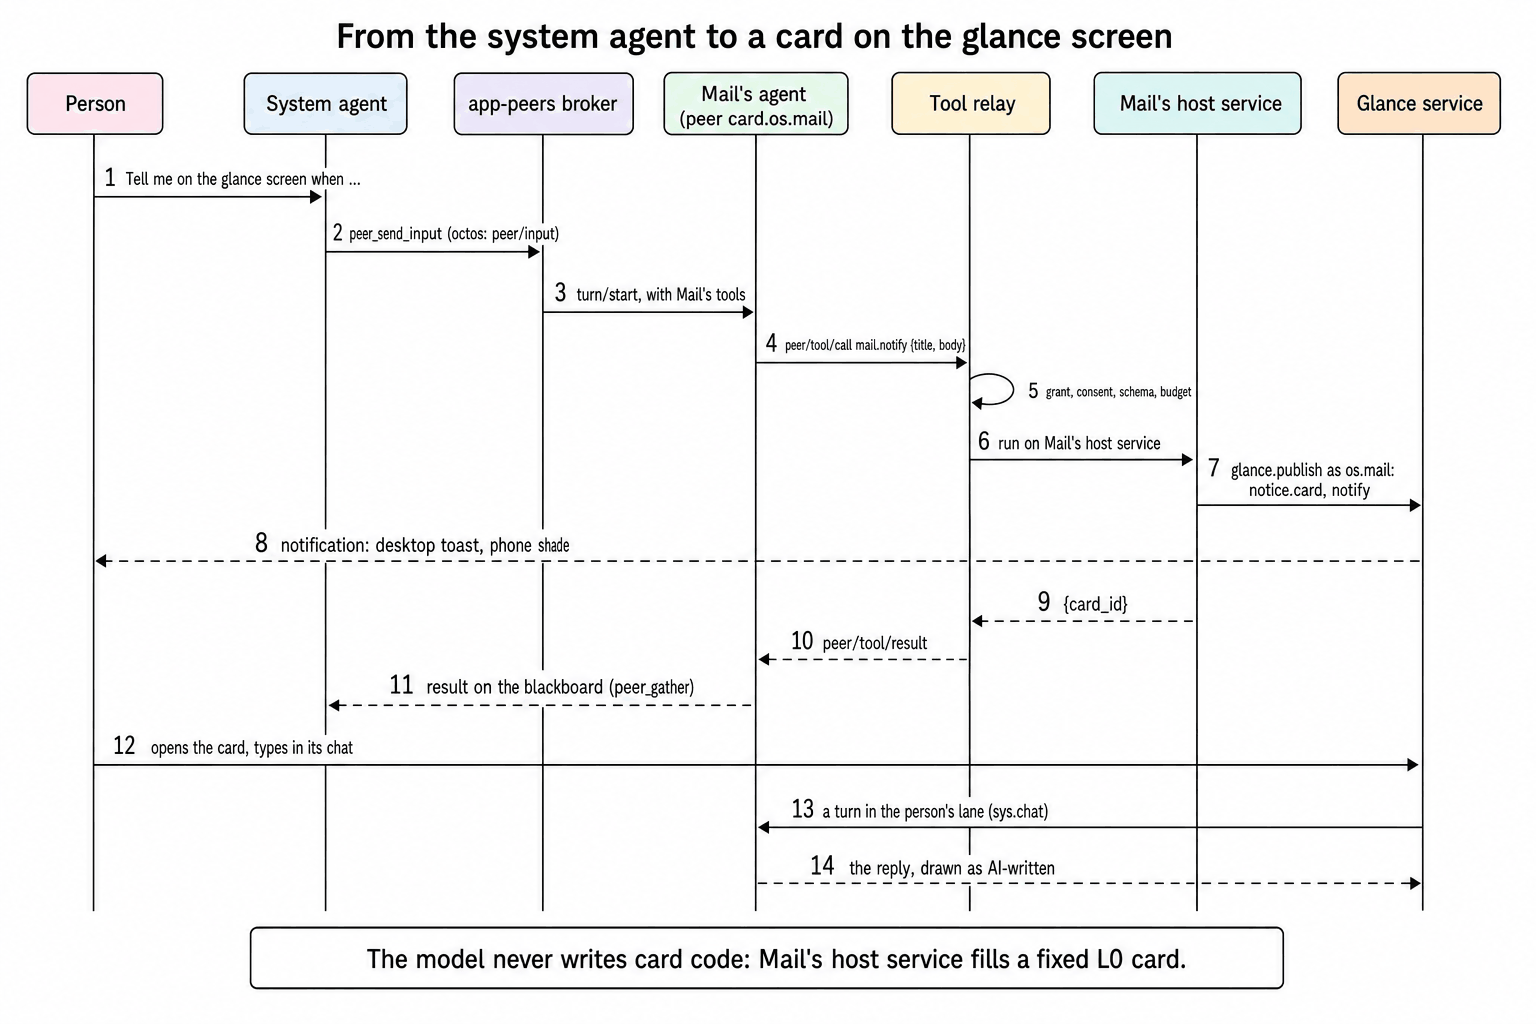
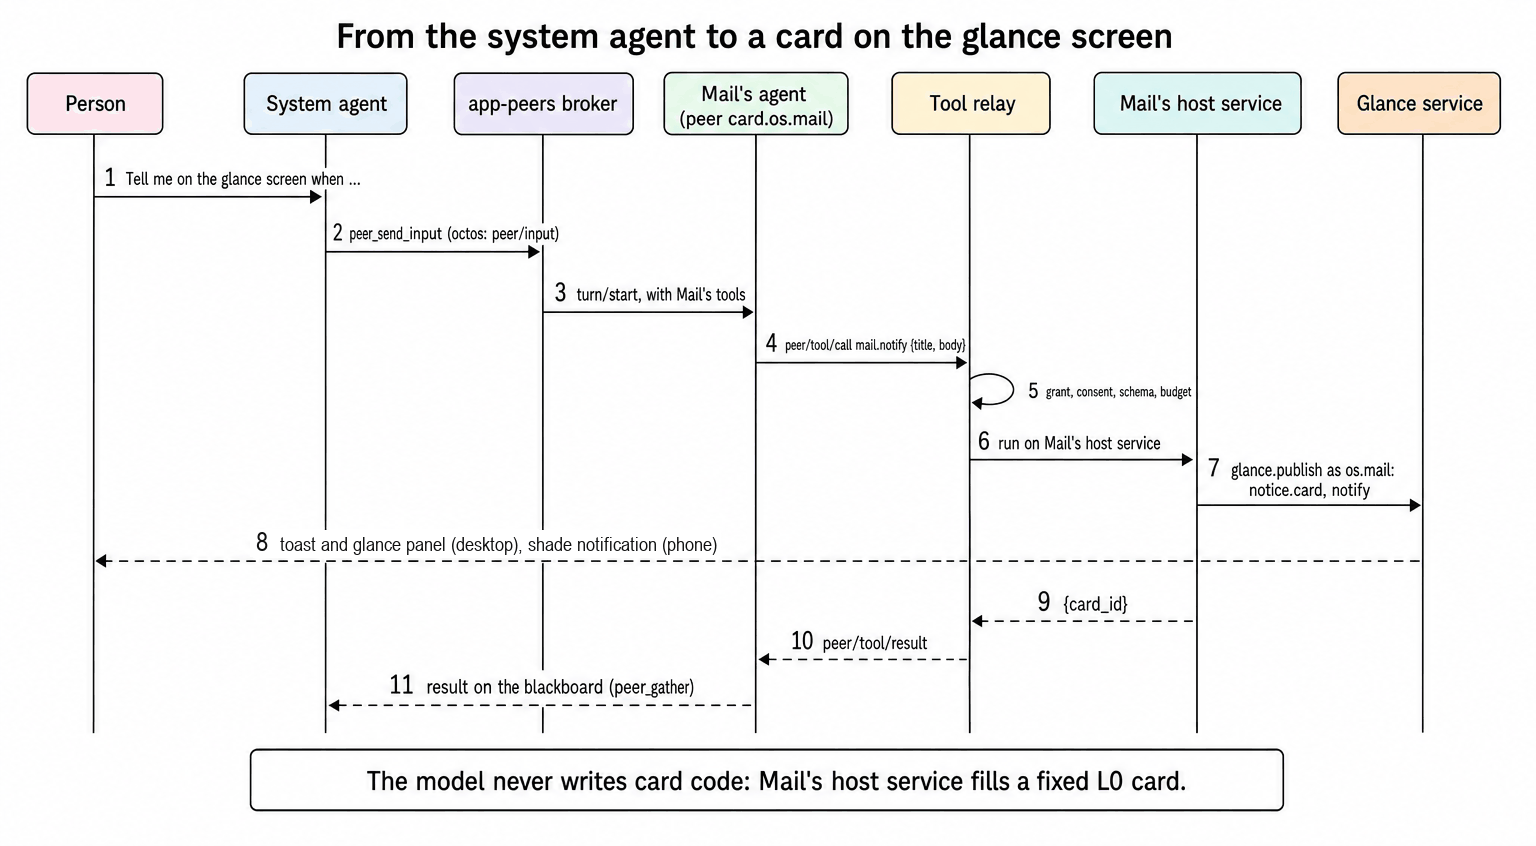
docs: distinguish shipped Glance notices from chat-capable cards

diff --git a/README.zh-CN.md b/README.zh-CN.md
@@ -122,18 +122,15 @@ sequenceDiagram
   R->>R: grant, consent, schema, budget
   R->>M: run on Mail's host service
   M->>G: glance.publish as os.mail: notice.card, notify
-  G-->>P: notification (a desktop toast, the phone's shade)
+  G-->>P: desktop: a toast and the glance panel; phone: a shade notification
   M-->>R: {card_id}
   R-->>A: peer/tool/result
   A-->>S: the turn's result on the blackboard (peer_gather)
-  P->>G: opens the card, types in its chat
-  G->>A: a turn in the person's lane (sys.chat)
-  A-->>G: the reply, drawn as AI-written
 ```
 
 </details>
 
-- 通知工具经 `glance_notice.rs` 填充 `crates/shell/resources/glance/notice.card`；Mail 和 News 的宿主服务回调委派到这里。Calendar 的事件与议程模板位于 `apps/calendar/host-service/resources/`。这些工具接收内容，以应用身份发布固定 L0 模板。
+- 通知工具经 `glance_notice.rs` 填充 `crates/shell/resources/glance/notice.card`；Mail 和 News 的宿主服务回调委派到这里。Calendar 的事件与议程模板位于 `apps/calendar/host-service/resources/`。这些工具接收内容，以应用身份发布固定 L0 模板。随产品提供的通知、事件与议程模板均未声明 `sys.chat`；通过 “Ask <app>” 与应用 Agent 讨论这些卡片。
 - `mail.notify` 和 `calendar.add_event` 是 `act` 工具，运行时不弹面板；octos 只对破坏性和对外的工具请求审批，这些审批交给 Shell 的审批路由（[见下文](#一次带审批的工具调用)）。
 
 ### 一个应用 Agent，两条通道
@@ -180,8 +177,8 @@ flowchart TB
 | 入口 | 位置 | 如何打开 |
 | --- | --- | --- |
 | **“Ask <app>”**（`crates/shell/src/app_chat/`） | Shell 为每个拥有 Agent 的应用提供的面板，不论应用自己是否绘制对话界面：它就是系统对话的窗格，以应用对话的形式绘制（`app_panel: true`）。在桌面端，它位于系统对话的右侧，两条通道并排显示。 | 顶栏的 “Ask <app>” 按钮（当前聚焦窗口的应用拥有 Agent 时显示）、Shift+F8，或菜单项 “Ask this app's agent”。如果聚焦的应用没有 Agent，Shell 会提示 “No app agent here”。在手机上，这个窗格绘制为全屏面板，但 `main` 上还没有可以打开它的触控入口。 |
-| **卡片的卡内对话**（`sys.chat`，`crates/shell/src/glance_chat.rs`） | 应用发布的一张 glance 卡片 | 用户在卡片的对话里输入。只有发布卡片的应用自己的 Agent 会回答，它的回复标为 AI 撰写（[见下文](#卡片与提问)）。 |
-| **应用自己的界面** | 原生模块的 `open_conversation`、脚本应用的 `octos.session.open`、进程应用的 peer link | 在应用内。Rinx 绘制自己的助手界面；系统应用（新闻、邮件、日历）都不绘制对话界面，所以对它们来说，入口就是这个面板和它们的卡片。 |
+| **卡片的卡内对话**（`sys.chat`，`crates/shell/src/glance_chat.rs`） | 应用发布的一张 glance 卡片 | 用户在卡片的对话里输入。声明了 `sys.chat` 的卡片将消息交给发布应用的 Agent，回复标为 AI 撰写（[见下文](#卡片与提问)）。随产品提供的 Agent 通知卡片与 Calendar 卡片没有聊天；Mail 演示卡片使用预设回复。 |
+| **应用自己的界面** | 原生模块的 `open_conversation`、脚本应用的 `octos.session.open`、进程应用的 peer link | 在应用内。Rinx 绘制自己的助手界面；系统应用都不绘制对话界面，目前通过 “Ask <app>” 面板与它们的 Agent 对话。 |
 
 “Ask <app>” 面板的行为：
 
@@ -238,7 +235,7 @@ sequenceDiagram
 
 ### 卡片与提问
 
-- **Glance 卡片**（`crates/shell/src/glance.rs`）：拥有 `glance` 权限的应用用 `glance.publish`（以及 `glance.withdraw`、`glance.list`）以自己的身份发布卡片：Shell 从调用方取得发布者，从不读取参数里的发布者。卡片要么是由 `data` 填充的 L0 `source`（只有呈现，由 Octoscript 的 L0 检查器检查），要么是 Splash `script`。限制：每个应用每分钟发布 6 次、最多保留 4 张卡片，总共保留 32 张，按优先级再按时间显示 6 张。以 `notify` 发布的卡片还会发出一条通知：桌面端点击 toast 会在单独的卡片窗口中打开这张卡片（`glance_sheet.rs`），每来一张新卡片 glance 面板（`glance_panel.rs`；顶栏的铃铛、F9）都会打开；手机上点通知栏里的通知会打开 glance 页面。
+- **Glance 卡片**（`crates/shell/src/glance.rs`）：获得 `glance` 权限的应用用 `glance.publish` 发布，以 `glance.withdraw` 撤回、`glance.list` 查询。Shell 从调用方确定发布身份。卡片可使用由 `data` 填充并检查的 L0 `source`，或 Splash `script`。每应用每分钟最多发布 6 次、保留 4 张，整个存储保留 32 张，按优先级和时间展示 6 张。桌面有新卡片时自动打开 glance 面板（顶栏铃铛、F9），但已有卡片窗口打开时例外。`notify` 还显示 toast，点击会打开该卡片窗口；面板打开时 toast 排在其旁边。卡片有移除按钮（`glance::dismiss`），面板有关闭按钮。手机的 `notify` 通知出现在通知栏，点击打开 glance 页面。
 - **交互式卡片**（[#153](https://github.com/OctoSense-org/OctoSense/pull/153)）：应用的 glance 卡片在应用自己的策略下运行，与应用界面在 Card runner 中一样。用户在卡片上的操作是应用自己的操作，经过应用的能力闸门和宿主服务，而不是 Agent 的工具调用，因此不需要额外的 Shell 审批。
 - **卡内对话**（[#263](https://github.com/OctoSense-org/OctoSense/pull/263)）：L0 卡片可以声明 `sys.chat(app, thread, fields)` 并绘制 `ChatEntry` 行，也可以显示模型写的文字（`class: model-copy`），这些文字标为 AI 撰写，且从不被当作操作执行。对话记录归宿主所有（[`crates/l0-chat`](crates/l0-chat/README.md)、`crates/shell/src/glance_chat.rs`）：只能与发布卡片的应用自己的 Agent 对话，只有用户亲手输入的内容才记为用户的话，Agent 在用户的通道里回答。对话按线程保存在应用的账号文件夹中（`apps/<app>/accounts/<account>/chat/<thread>.json`）。
 - **提问**（octos 的 `ask_user_question`）按这一轮的触发方路由：来自用户通道（或应用）的一轮在应用的对话中提问，来自系统 Agent 通道的一轮在系统对话中提问。只有用户能回答，而且只能在 Shell 的界面上回答。

diff --git a/README.md b/README.md
@@ -123,18 +123,15 @@ sequenceDiagram
   R->>R: grant, consent, schema, budget
   R->>M: run on Mail's host service
   M->>G: glance.publish as os.mail: notice.card, notify
-  G-->>P: notification (a desktop toast, the phone's shade)
+  G-->>P: desktop: a toast and the glance panel; phone: a shade notification
   M-->>R: {card_id}
   R-->>A: peer/tool/result
   A-->>S: the turn's result on the blackboard (peer_gather)
-  P->>G: opens the card, types in its chat
-  G->>A: a turn in the person's lane (sys.chat)
-  A-->>G: the reply, drawn as AI-written
 ```
 
 </details>
 
-- The notice tools fill `crates/shell/resources/glance/notice.card` through `glance_notice.rs`; Mail and News delegate to it from their host-service callbacks. Calendar ships its own event and agenda templates in `apps/calendar/host-service/resources/`. These tools accept content and publish a fixed L0 template as the app.
+- The notice tools fill `crates/shell/resources/glance/notice.card` through `glance_notice.rs`; Mail and News delegate to it from their host-service callbacks. Calendar ships its own event and agenda templates in `apps/calendar/host-service/resources/`. These tools accept content and publish a fixed L0 template as the app. The shipped notice, event and agenda templates declare no `sys.chat`; use “Ask <app>” to discuss them with the app agent.
 - `mail.notify` and `calendar.add_event` are `act` tools and run without a sheet; octos asks for approval only for destructive and outward tools, which go to the shell's approval router ([below](#a-tool-call-with-an-approval)).
 
 ### One app agent, two lanes
@@ -181,8 +178,8 @@ The person is not limited to the system agent: they can talk to any app's own ag
 | Surface | Where it is | How it opens |
 | --- | --- | --- |
 | **"Ask <app>"** (`crates/shell/src/app_chat/`) | A shell panel for every app with an agent, whether or not the app draws a chat of its own: the system chat's pane drawn as the app's conversation (`app_panel: true`). On a desktop it stands right of the system chat, so the two lanes show side by side. | The bar's "Ask <app>" button (shown while the focused window's app has an agent), Shift+F8, or the menu row "Ask this app's agent". With an app without an agent focused, the shell says "No app agent here". On the phone the pane is drawn as a full-screen sheet, but no touch control opens it on `main` yet. |
-| **A card's in-card chat** (`sys.chat`, `crates/shell/src/glance_chat.rs`) | A glance card the app published | The person types in the card's chat. Only the publishing app's own agent answers, and its reply is marked AI-written ([below](#cards-and-questions)). |
-| **The app's own UI** | A native module's `open_conversation`, a script app's `octos.session.open`, a process app's peer link | Inside the app. Rinx draws its own assistant UI; none of the system apps (News, Mail, Calendar) draws a chat, so for them the panel and their cards are the way in. |
+| **A card's in-card chat** (`sys.chat`, `crates/shell/src/glance_chat.rs`) | A glance card the app published | The person types in the card's chat. A card declaring `sys.chat` routes to its publishing app's agent, whose reply is marked AI-written ([below](#cards-and-questions)). The shipped agent notice and Calendar cards contain no chat; the Mail demo card uses canned replies. |
+| **The app's own UI** | A native module's `open_conversation`, a script app's `octos.session.open`, a process app's peer link | Inside the app. Rinx draws its own assistant UI; none of the system apps draws a chat, so the “Ask <app>” panel is their current conversation entry. |
 
 How the "Ask <app>" panel behaves:
 
@@ -239,7 +236,7 @@ sequenceDiagram
 
 ### Cards and questions
 
-- **Glance cards** (`crates/shell/src/glance.rs`): an app with the `glance` capability publishes with `glance.publish` (`glance.withdraw`, `glance.list`), as itself: the shell takes the publisher from the caller, never from the arguments. A card is an L0 `source` filled from `data` (presentation only, checked with Octoscript's L0 checker) or a Splash `script`. Limits: 6 publishes a minute and 4 cards per app, 32 kept, 6 shown by priority, then recency. A card published with `notify` also posts a notification: on a desktop the toast opens that card in its own card window (`glance_sheet.rs`), and the glance panel (`glance_panel.rs`; the bar's bell, F9) opens on every new card; on a phone the shade's notification opens the glance page.
+- **Glance cards** (`crates/shell/src/glance.rs`): an app with the `glance` capability publishes with `glance.publish` (`glance.withdraw`, `glance.list`), as itself: the shell takes the publisher from the caller, never from the arguments. A card is an L0 `source` filled from `data` (presentation only, checked with Octoscript's L0 checker) or a Splash `script`. Limits: 6 publishes a minute and 4 cards per app, 32 kept, 6 shown by priority, then recency. A card published with `notify` also posts a notification: on a desktop the toast opens that card in its own card window (`glance_sheet.rs`), and a new card opens the glance panel (`glance_panel.rs`; the bar's bell, F9) unless a card window is already open. Toasts stack beside the open panel. Cards have dismiss buttons (`glance::dismiss`), and the panel has a close button. On a phone the shade's notification opens the glance page.
 - **Interactive cards** ([#153](https://github.com/OctoSense-org/OctoSense/pull/153)): an app's glance cards run under the app's own policy, as the app's UI does in the Card runner. What the person does on a card is the app's own action, through the app's capability gate and host services, not an agent tool call, so it needs no extra shell approval.
 - **In-card chat** ([#263](https://github.com/OctoSense-org/OctoSense/pull/263)): an L0 card may declare `sys.chat(app, thread, fields)` and draw `ChatEntry` rows, and show text the model wrote (`class: model-copy`), marked AI-written and never acted on. The transcript is the host's ([`crates/l0-chat`](crates/l0-chat/README.md), `crates/shell/src/glance_chat.rs`): only the publishing app's own agent, only what the person typed is written as theirs, and the agent answers in the person's lane. Threads are kept in the app's account folder (`apps/<app>/accounts/<account>/chat/<thread>.json`).
 - **Questions** (octos's `ask_user_question`) are routed by the turn's trigger: a turn from the person's lane (or the app) asks in the app's conversation, a turn from the system agent's lane asks in the system chat. Only the person answers, on a shell surface.

diff --git a/apps/README.zh-CN.md b/apps/README.zh-CN.md
@@ -349,8 +349,8 @@ Agent 开放。Peer 的工作目录也不会挂载 Mail 的宿主数据库或凭
   然后把 peer 的 slug 交给系统 Agent，让请求在同一轮里继续。只有系统 Agent、用户或卡片的卡内对话发起请求时才会
   开始一轮：还没有触发器或定时任务（ADR 0002 M3，计划中）。
 - **直接与它对话。** 用户可以直接与应用的 Agent 对话，而不只是通过系统 Agent：在 Shell
-  为每个拥有 Agent 的应用提供的 “Ask <app>” 面板里（这些应用都不绘制自己的对话界面），
-  或在卡片的卡内对话里。这些回合在用户的通道里运行，与系统 Agent 的通道并列，带着应用的
+  为每个拥有 Agent 的应用提供的 “Ask <app>” 面板里（这些应用都不绘制自己的对话界面）。
+  随产品提供的通知与 Calendar 卡片没有聊天字段；声明了 `sys.chat` 的自定义卡片可使用同一用户通道。这些回合在用户的通道里运行，与系统 Agent 的通道并列，带着应用的
   工具。面板的“停止”只停止用户自己的回合。手机上还没有打开这个面板的触控入口。详见根目录的
   [README](../README.zh-CN.md#直接与应用的-agent-对话)。
 - **它的工具在应用的宿主服务上运行**，以应用的身份运行，在此之前 Shell 的中转已检查授权、
@@ -365,8 +365,7 @@ Agent 开放。Peer 的工作目录也不会挂载 Mail 的宿主数据库或凭
   `card_id` 会替换该应用之前的通知。邮件和新闻的服务把 `notify` 交给 Shell；照片、地图、YouTube
   和相机没有自己的服务，由 Shell 的通知服务应答。`calendar.notify` 和 `calendar.agenda` 填充日历
   自己的日程卡片和议程卡片。每张卡片都以应用的身份、带 `notify` 通过 Shell 的 `glance` 服务发布
-  （应用需要 `glance` 权限）。模型只提供文字，从不编写卡片代码。卡片里可以有与应用自己的 Agent 的卡内对话
-  （`sys.chat`，[`../crates/l0-chat`](../crates/l0-chat/README.md)）。
+  （应用需要 `glance` 权限）。模型只提供文字，从不编写卡片代码。这些通知、事件和议程模板没有 `sys.chat`。自定义卡片可声明与应用 Agent 的卡内对话（[`../crates/l0-chat`](../crates/l0-chat/README.md)）；Mail 演示卡片使用预设回复。
 - **试一试**（桌面端）：打开助手（F8），请系统 Agent 让某个应用的 Agent（邮件、日历、新闻、照片、
   地图或 YouTube）在 glance 屏幕上放一张卡片；在弹出的面板上允许该 Agent。邮件需要一个已登录的账户（下文的演示邮箱即可）。
   邮件更完整的操作卡片（[计划（英文）](mail/docs/2026-10-01-email-action-card-plan.md)）目前只是

diff --git a/docs/architecture-walkthrough.md b/docs/architecture-walkthrough.md
@@ -125,6 +125,8 @@ The broker's `driver_of` and `take_over` handle multiple native instances sharin
 | A script app's own chat | Exact granted `octos.session.open`, `octos.session.history`, `octos.turn.start`, `octos.turn.interrupt` calls through `host.request`. The shipped system-app agents are shell-driven without their scripts declaring these calls. |
 | A published card's chat | `sys.chat` → [l0-chat](../crates/l0-chat/src/lib.rs) and [glance_chat.rs](../crates/shell/src/glance_chat.rs). Publisher checks bind it to the card's owning app. |
 
+The shipped `<app>.notify`, `calendar.notify` and `calendar.agenda` templates contain no `sys.chat`; their agents are reached through “Ask <app>”. The `OCTOSENSE_GLANCE_DEMO=mail` demonstration card has chat but uses canned replies (`glance_chat::HostResponder`). The card-chat route above applies to a card that declares `sys.chat`.
+
 Phone touch navigation does not yet expose an equivalent control to open the Ask-app panel; app-owned chat and published-card chat are separate surfaces. The Ask-app panel's Stop interrupts the human lane; “Stop the system agent's task” targets the other lane. The lower-level conversation `ContextOp::Interrupt` is broader and can interrupt both: do not assume all Stop surfaces call the same method. Hiding the Ask panel keeps its context/subscription; changing app or revoking access closes it.
 
 The shell stamps a composer action as `TurnTrigger::Person`. A script can supply `trigger`/`from` with `octos.turn.start`, but its `trigger: "person"` becomes `AppSaysPerson`: a transcript label is not proof of a trusted human gesture and cannot unlock human-initiated approval rules.

diff --git a/apps/README.md b/apps/README.md
@@ -402,7 +402,7 @@ See the [data-access walkthrough](../desktop/docs/code-walkthrough.md#4-follow-a
 - **Talking to it yourself.** The person can chat with the app's agent
   directly, not only through the system agent: in the "Ask <app>" panel,
   which the shell draws for every app with an agent (none of these apps
-  draws a chat of its own), or in a card's in-card chat. Those turns run
+  draws a chat of its own). The shipped notice and Calendar cards have no chat field. A custom card declaring `sys.chat` can use the same human lane. Those turns run
   in the person's lane, beside the system agent's, with the app's tools.
   The panel's Stop stops only the person's own turn. On the phone no touch
   control opens the panel yet. See the root
@@ -426,8 +426,7 @@ See the [data-access walkthrough](../desktop/docs/code-walkthrough.md#4-follow-a
   is published with `notify` through the shell's `glance` service as the
   app (the app needs the `glance` capability). The model only supplies the
   text; it never writes card code.
-  A card can hold an in-card chat with the app's own agent (`sys.chat`,
-  [`../crates/l0-chat`](../crates/l0-chat/README.md)).
+  These notice, event and agenda templates contain no `sys.chat`. A custom card can declare in-card chat with its app's agent ([`../crates/l0-chat`](../crates/l0-chat/README.md)); the Mail demo card uses canned replies.
 - **Trying it** on the desktop: open the assistant (F8) and ask the system
   agent to have an app's agent (Mail, Calendar, News, Photos, Maps or
   YouTube) put a card on the glance screen;

diff --git a/docs/architecture-walkthrough.zh-CN.md b/docs/architecture-walkthrough.zh-CN.md
@@ -125,6 +125,8 @@ sequenceDiagram
 | 脚本应用自己的聊天 | 经 `host.request` 调用确切获授权的 `octos.session.open`、`octos.session.history`、`octos.turn.start`、`octos.turn.interrupt`。随产品提供的系统应用 Agent 由 Shell 驱动，其脚本无需声明这些调用。 |
 | 已发布卡片中的聊天 | `sys.chat` 经 [l0-chat](../crates/l0-chat/src/lib.rs) 与 [glance_chat.rs](../crates/shell/src/glance_chat.rs) 到达发布者的 Agent；宿主核对卡片归属。 |
 
+随产品提供的 `<app>.notify`、`calendar.notify` 与 `calendar.agenda` 模板不含 `sys.chat`，通过 “Ask <app>” 与其 Agent 对话。`OCTOSENSE_GLANCE_DEMO=mail` 演示卡片带有聊天，但由 `glance_chat::HostResponder` 返回预设答案。上表的卡片聊天路线适用于声明了 `sys.chat` 的卡片。
+
 手机触控导航尚无打开 Ask-app 面板的对应控件；应用自己的聊天与卡片聊天是另外的入口。Ask-app 面板的 Stop 中断用户通道，“Stop the system agent's task” 中断系统通道。底层 `ContextOp::Interrupt` 范围更大，可以中断两条通道。隐藏面板保留 context 和订阅；切换应用或撤销访问会关闭它。
 
 Shell 将聊天输入动作标为 `TurnTrigger::Person`。脚本调用 `octos.turn.start` 可传 `trigger` / `from`，但 `trigger: "person"` 被记录为 `AppSaysPerson`；脚本标签不能作为可信用户动作来匹配审批规则。

diff --git a/desktop/docs/code-walkthrough.md b/desktop/docs/code-walkthrough.md
@@ -213,7 +213,9 @@ On desktop, focus an agent-enabled app and open **Ask &lt;app&gt;** from the bar
 Shift+F8 or the menu. F8 opens the system agent. `agents.list` reports app agents;
 `agents.ask` waits for first-use consent and peer preparation, then returns the
 peer slug. The system agent sends the task with `peer_send_input` and gathers its
-answer with `peer_gather`. A card's `sys.chat` can address its own app agent.
+answer with `peer_gather`. A card declaring `sys.chat` can address its own app
+agent. Shipped notice and Calendar templates have no chat, so use “Ask <app>”
+for those agents; the Mail demo card answers with canned text.
 Phone touch navigation has no Ask-app panel-opening control yet.
 
 Follow [`app_chat/`](../../crates/shell/src/app_chat/mod.rs),
